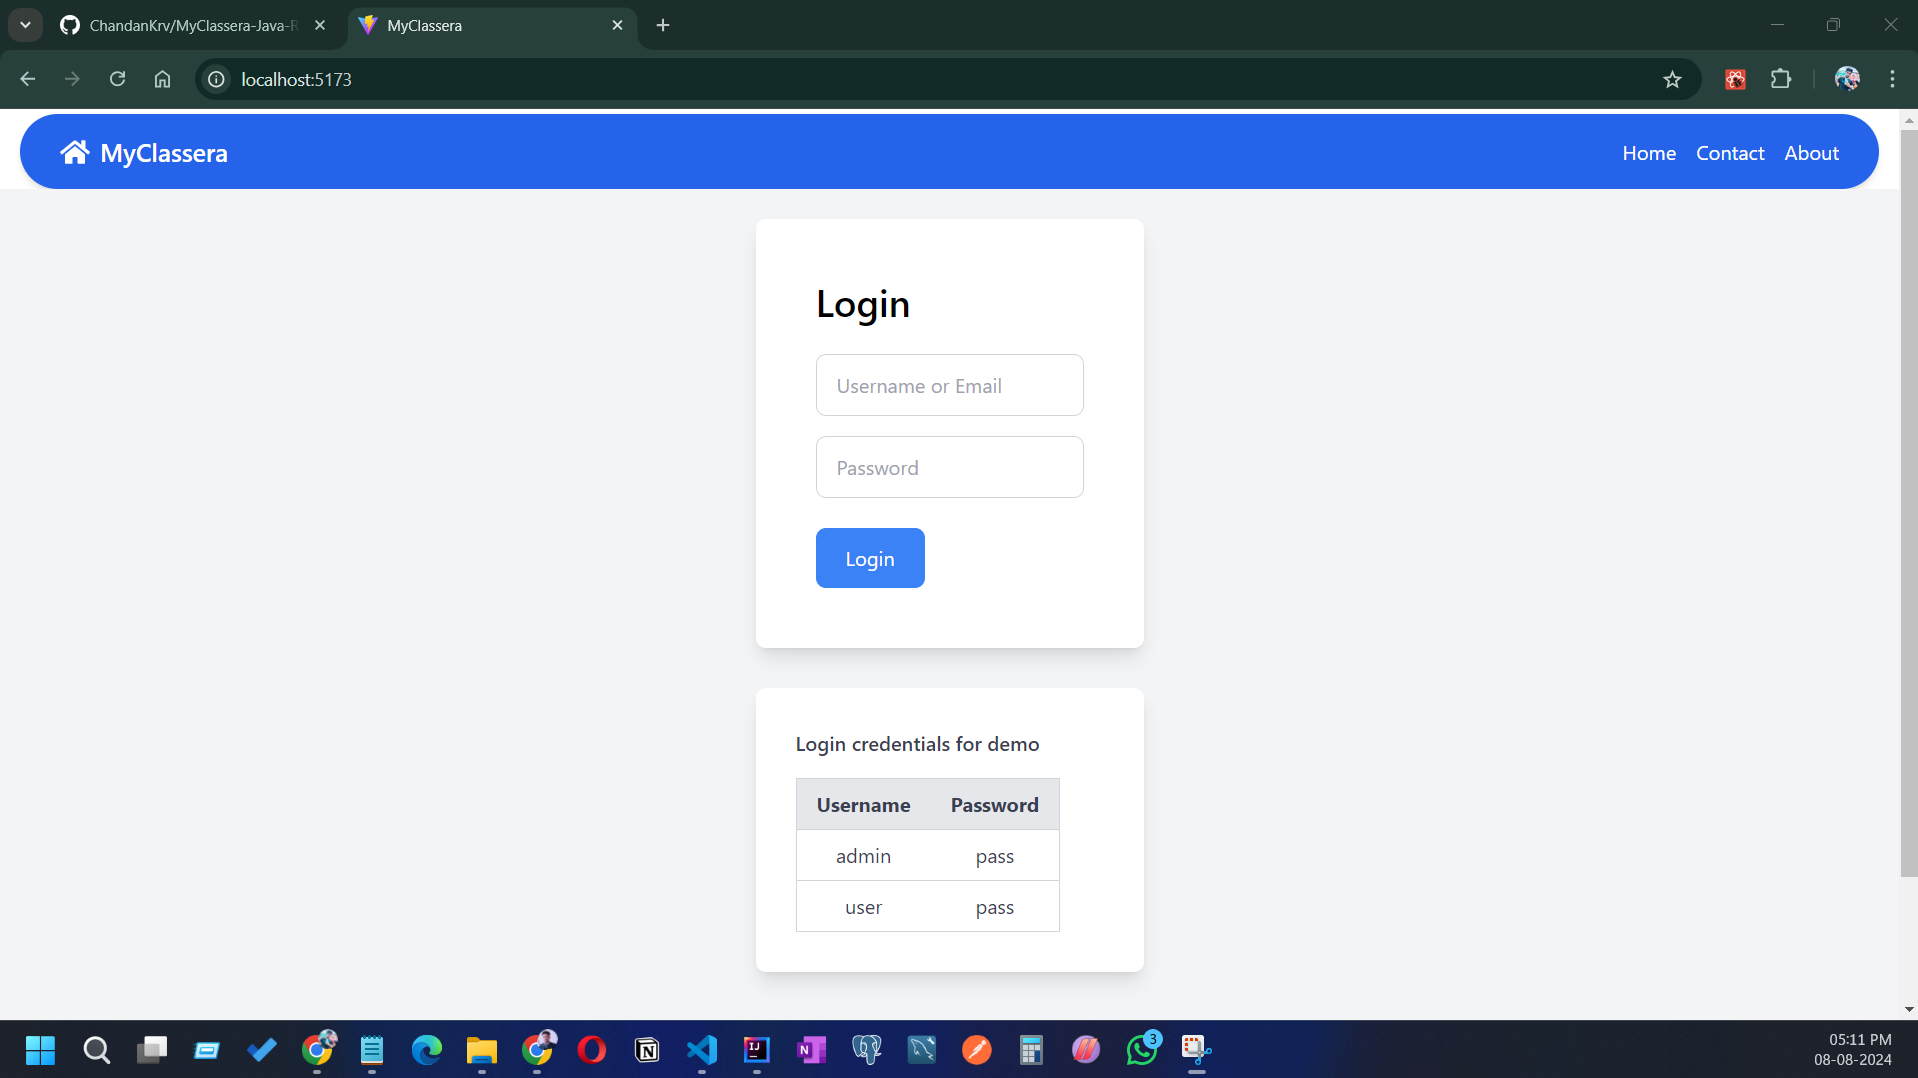
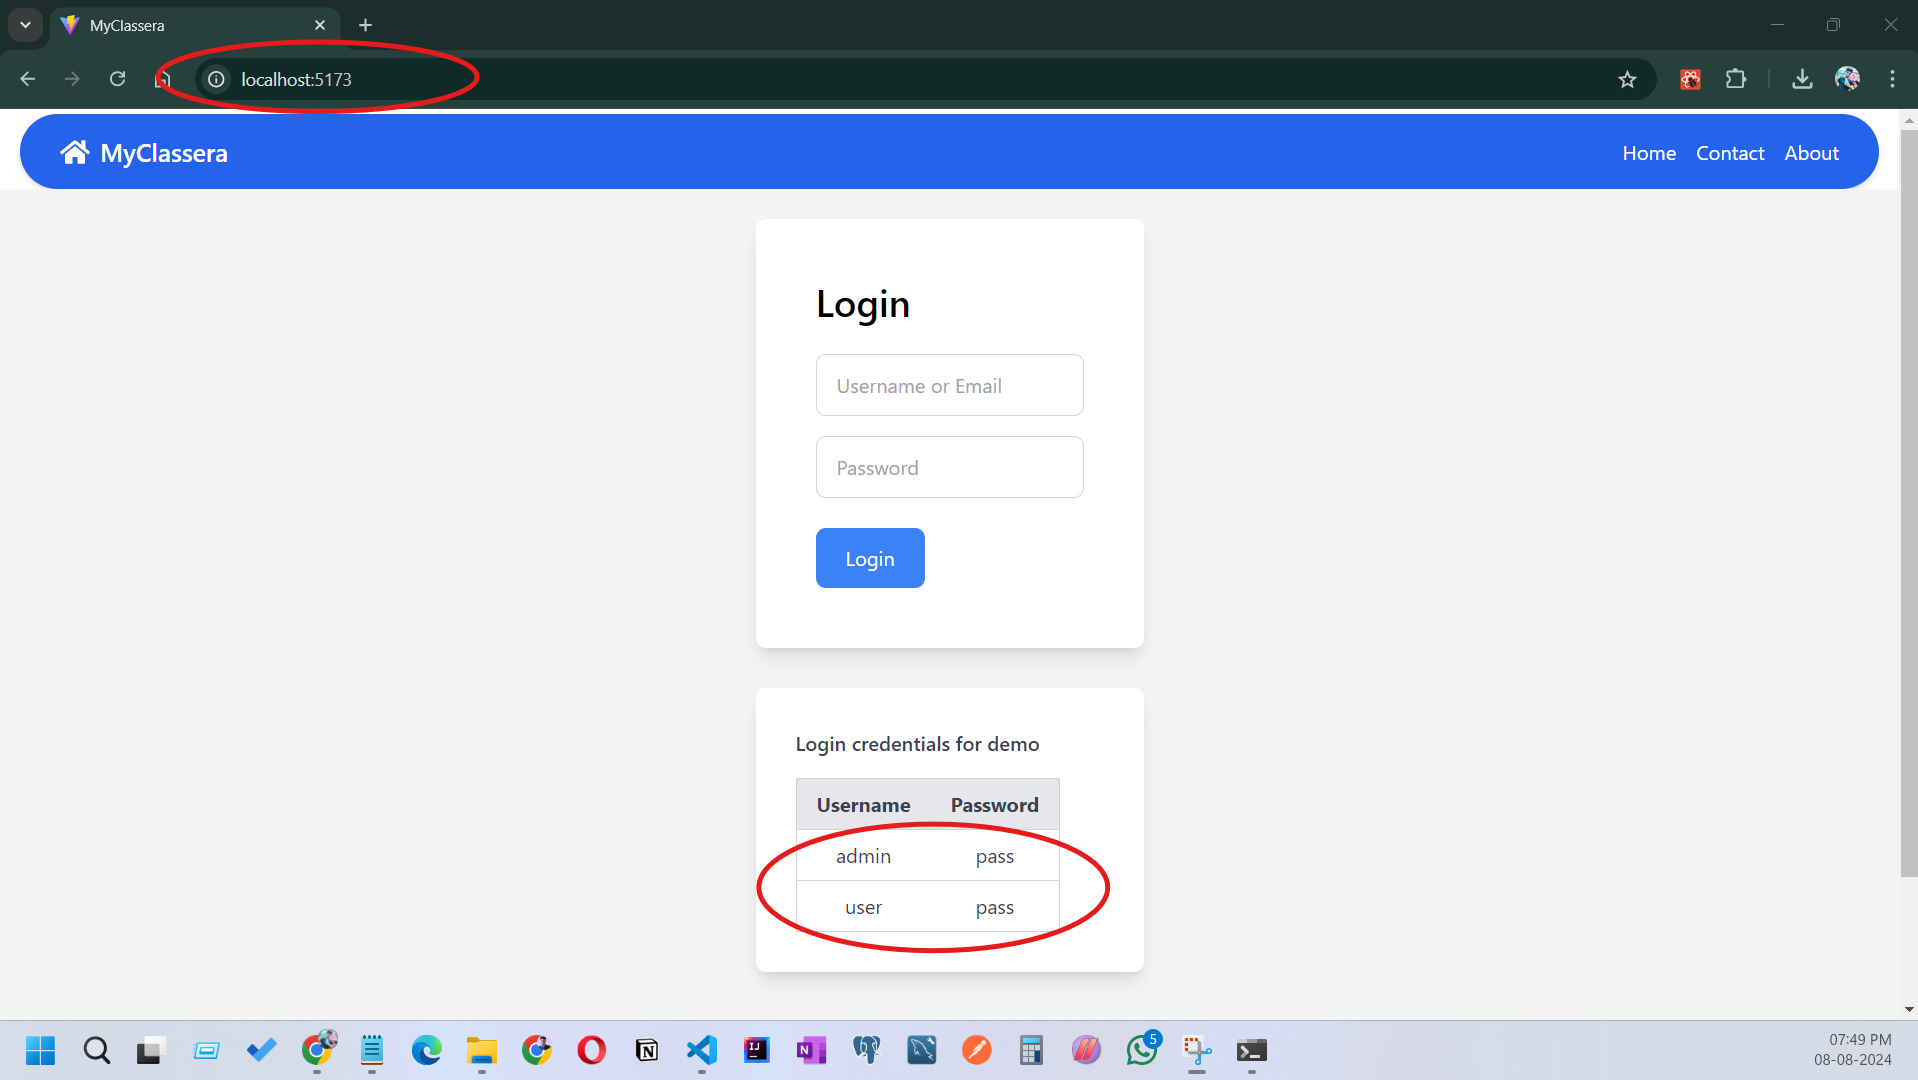
screenshots added

diff --git a/README.md b/README.md
@@ -49,33 +49,33 @@ MyClassera is a web-based application that allows students to enroll in multiple
 - **H2-Database Setup (Optional):**
   - Clone or Download this project from this repository:
     `https://github.com/ChandanKrv/MyClassera-Java-React.git`
-  - Navigate to "Sample Database" directory copy .db file
-  - Paste .db file to your home directory. e.g. `C:\Users\<<Your_PC_Username>>` [View Screenshot](Screenshots/h2db-location.png)
+  - Navigate to "Sample Database" directory copy .db file [Preview](Screenshots/h2-databsae-in-repo.png)
+  - Paste .db file to your home directory. e.g. `C:\Users\<<Your_PC_Username>>` [Preview](Screenshots/h2db-location.png)
 
 - **Backend Setup:**
 
   - Clone or Download this project from this repository:
     `https://github.com/ChandanKrv/MyClassera-Java-React.git`
-  - Navigate to MyClassera-Backend directory and open cmd
-  - Build the project: `mvn clean install`
-  - Run the Spring Boot application: `mvn spring-boot:run`
-  - The backend will start at http://localhost:8080
-    `Access Denied !! Full authentication is required to access this resource`
+  - Navigate to MyClassera-Backend directory and open cmd 
+  - Build the project: `mvn clean install`  [Preview](Screenshots/mvm-clean-install.png)
+  - Run the Spring Boot application: `mvn spring-boot:run` [Preview](Screenshots/mvm-springboot-run.png)
+  - The backend will start at http://localhost:8080 [Preview](Screenshots/running-springboot.png)
+    `Access Denied !! Full authentication is required to access this resource` [Preview](Screenshots/access-denied-backend.png)
     - JwtToken is required for access,so we need to setup frontend or use Postman to generate the token.
 
 - **Frontend Setup:**
   - Navigate to myclassera-frontend directory and open cmd
-  - Install dependencies: `npm install`
-  - Run the React/Vite application: `npm run dev`
-  - The frontend will start at http://localhost:5173
+  - Install dependencies: `npm install` [Preview](Screenshots/npm-install.png)
+  - Run the React/Vite application: `npm run dev` [Preview](Screenshots/npm-run-dev.png)
+  - The frontend will start at http://localhost:5173  [Preview](Screenshots/login.png)
   - Navigate to this URL, Use these Login Credentials
     - | Username | Password |
       | -------- | -------- |
       | admin    | pass     |
       | user     | pass     |
 
-## Screenshots
-![Login Screenshot](Screenshots/login.png)
+## Project Setup Screenshots
+![Copy this db file](Screenshots/h2-databsae-in-repo.png)
 
 
 
